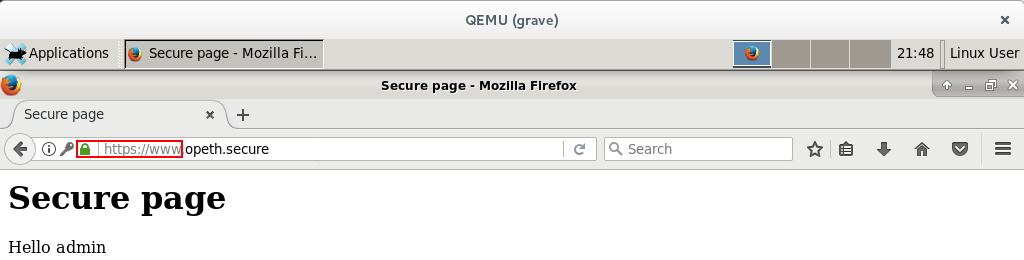
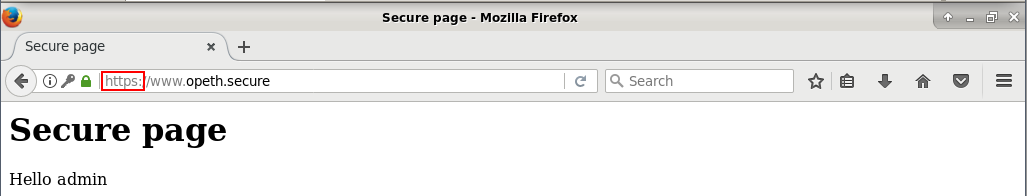
sslstrip2: update screens URL

diff --git a/sslstrip2/README.md b/sslstrip2/README.md
@@ -91,7 +91,7 @@ Si elle reçoit une requête DNS sur la chaîne iptables PREROUTING, alors elle 
 Pour lancer l'environnement de test, il faut lancer la commande suivante (on aura récupéré au préalable le dépôt [qemunet](https://gitlab.inria.fr/qemunet/core)) :
 
 ```
-$ ./qemunet/qemunet.sh -x -S sslstrip
+$ ./qemunet/qemunet.sh -x -S sslstrip2
 ```
 
 À partir de là, les trois machines sont lancées.
@@ -100,15 +100,15 @@ $ ./qemunet/qemunet.sh -x -S sslstrip
 
 Lorsque l'attaque n'est pas encore lancée, nous pouvons voir sur la machine grave que tout se passe normalement et que la requête POST passe bien en HTTPS (immortal est donc incapable de voir les identifiants envoyés) :
 
-![screen1](../medias/sslstrip/screen1.png?raw=true)
+![screen1](../medias/sslstrip2/screen1.png?raw=true)
 
 L'encadré rouge montre bien que le POST est effectué en HTTPS, sur la page secure.php.
 
-![screen2](../medias/sslstrip/screen2.png?raw=true)
+![screen2](../medias/sslstrip2/screen2.png?raw=true)
 
-Nous arrivons alors sur la page secure.php, en HTTPS : immortal n'a pas pût voir nos échanges sur cette page sécurisée.
+Nous arrivons alors sur le domaine www.opeth.secure en HTTPS : immortal n'a pas pût voir nos échanges sur cette page sécurisée.
 
-![screen3](../medias/sslstrip/screen3.png?raw=true)
+![screen3](../medias/sslstrip2/screen3.png?raw=true)
 
 ## Etape 2 : lancement de l'attaque
 
@@ -220,12 +220,12 @@ La machine immortal est donc capable d'intercepter les échanges réalisés sur 
 
 Ici on voit dans l'encadré rouge, que le lien https:// a bien été remplacé par un lien non sécurisé http:// :
 
-![screen5](../medias/sslstrip2/screen1.png?raw=true)
+![screen5](../medias/sslstrip2/screen5.png?raw=true)
 
 Nous constatons que nous arrivons sur la page secure.php en HTTP : notre navigation n'est pas sécurisée !
 
-![screen6](../medias/sslstrip2/screen2.png?raw=true)
+![screen6](../medias/sslstrip2/screen6.png?raw=true)
 
 La machine immortal a été capable de capturer non seulement les identifiants du formulaire, mais également le cookie de session :
 
-![screen7](../medias/sslstrip/screen7.png?raw=true)
+![screen7](../medias/sslstrip2/screen7.png?raw=true)
